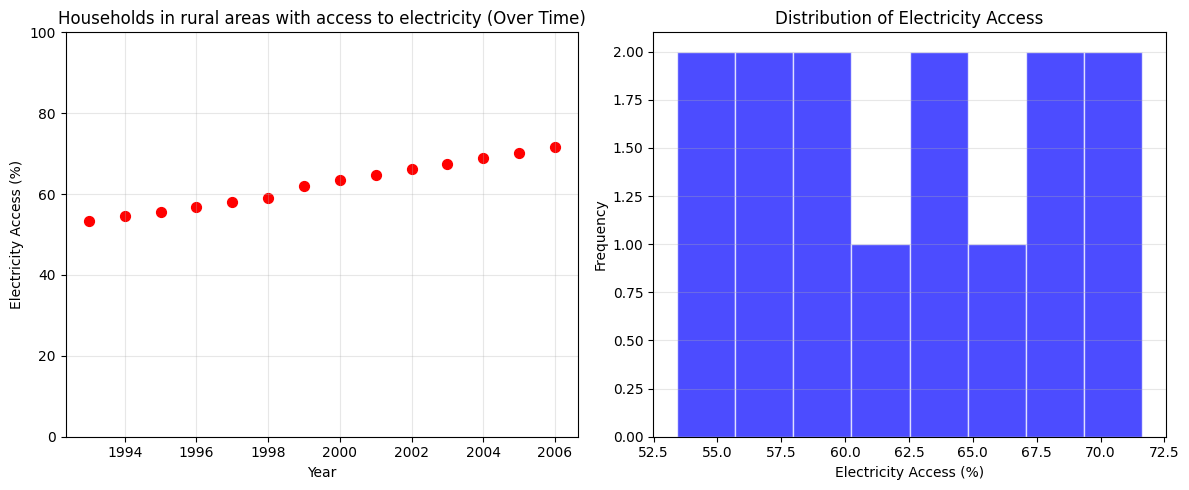
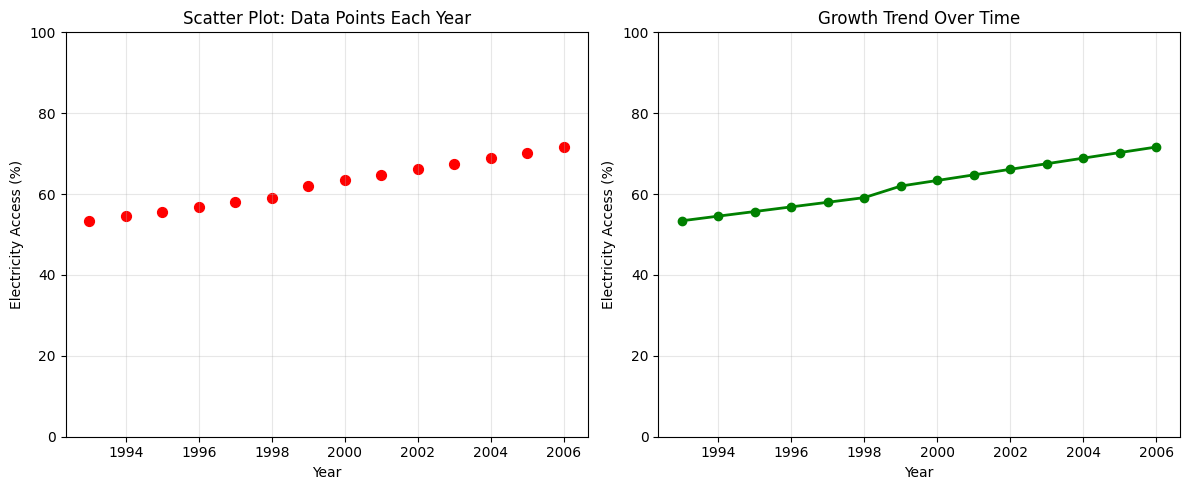
Improve data visualization to better show electricity access trends
Replace histogram with scatter and line plots in main.py to clearly illustrate rural electricity access growth over time.

Replit-Commit-Author: Agent
Replit-Commit-Session-Id: 63c57737-745c-44a8-ba56-48b451f8f956
Replit-Commit-Checkpoint-Type: full_checkpoint
Replit-Commit-Event-Id: 8f50f0e1-6451-4efc-9571-86b1f7bb03cb
Replit-Helium-Checkpoint-Created: true

diff --git a/interactive_story.py b/interactive_story.py
@@ -1,83 +1,113 @@
 import pandas as pd
 
-# Read the data file
+# Read India's electrification data
 lwd = pd.read_csv("livwell135.csv")
-
-# Get only India's data and sort by year
 india_data = lwd[lwd["country_name"] == "India"].sort_values("year")
 
-# Extract the columns we need
+print("-" * 70)
+print("Households in rural areas with access to electricity")
+print("-" * 70)
+print()
+
+# Story introduction
+print("""
+From 1993 to 2006, India embarked on one of the world's most ambitious 
+journeys: bringing electricity to its rural villages. This isn't just about 
+power lines and light bulbs it's about opportunity, hope, and especially 
+women's empowerment.
+
+Let's explore this story together!
+""")
+
+input("Press Enter to begin the journey through the 1990s...")
+print()
+
+# Extract all years data
 years = india_data["year"].tolist()
 rural_elec = india_data["ER_elec_rural_p"].tolist()
+overall_elec = india_data["EI_elec_p"].tolist()
 women_elec = india_data["EI_women_elec_p"].tolist()
 
-# Story title
-print("=" * 60)
-print("INDIA'S ELECTRICITY STORY (1993-2006)")
-print("=" * 60)
+print("The 1990s: The Starting Point")
+print("-" * 70)
+first_year = years[0]
+first_rural = rural_elec[0]
+first_overall = overall_elec[0]
+first_women = women_elec[0]
+
+print(f"""
+In {first_year}, India faced a massive challenge:
+  • Only {first_rural:.1f}% of rural households had electricity access
+  • Overall, just {first_overall:.1f}% of people had any electrical connection
+  • For women specifically, {first_women:.1f}% had access to electricity
+
+This meant that over 500 million people, mostly in villages lived without 
+electric lights, refrigeration, or communication tools. Women especially 
+suffered, as without electricity:
+  - No electric lights for studying or reading
+  - No electric pumps for water access
+  - No refrigeration to preserve food or medicine
+  - Limited access to modern cooking methods
+""")
+
+input("Press Enter to see the government's plan...")
 print()
 
-# Introduction
-print("In 1993, most people in rural India had no electricity.")
-print(f"Rural access: {rural_elec[0]:.1f}%")
-print(f"Women's access: {women_elec[0]:.1f}%")
+print("""
+The Mission: Rajiv Gandhi's Rural Electrification Scheme (1988) and later
+National Power Policy aimed to bring electricity to every village by 2000.
+
+Key Statistics from the Early Years:
+""")
+
+# Show year by year progression for first 5 years
+for i in range(min(5, len(years))):
+    print(f"  {years[i]}: Rural {rural_elec[i]:.1f}% | Overall {overall_elec[i]:.1f}% | Women {women_elec[i]:.1f}%")
+
+input("Press Enter to see the mid-period challenges...")
 print()
 
-input("Press Enter to see the progress...")
+print("The Mid-Period (1998-2002): Progress with Challenges")
+print("-" * 70)
+
+mid_idx = len(years) // 2
+print(f"""
+By the early 2000s, the infrastructure was expanding rapidly:
+
+  {years[mid_idx]}: Rural {rural_elec[mid_idx]:.1f}% | Overall {overall_elec[mid_idx]:.1f}% | Women {women_elec[mid_idx]:.1f}%
+
+The good news: More villages were getting connected to the power grid.
+The challenge: Creating the infrastructure was expensive and many areas 
+still lacked reliable supply.
+""")
+
+input("Press Enter to hear the women's stories of change...")
 print()
 
-# Show progress over time
-print("Year-by-year progress:")
-print("-" * 60)
-print(f"{'Year':<8} {'Rural %':<15} {'Women %':<15}")
-print("-" * 60)
+print("Women's Empowerment")
+print("-" * 70)
 
-for i in range(len(years)):
-    print(f"{years[i]:<8} {rural_elec[i]:<15.1f} {women_elec[i]:<15.1f}")
+# Calculate women's access improvement
+women_improvement = women_elec[-1] - women_elec[0]
+women_pct_gain = (women_improvement / women_elec[0]) * 100
 
-print()
-input("Press Enter to see what changed...")
-print()
+print(f"""
+One of the most remarkable aspects of electrification was its impact on women:
 
-# Calculate changes
-start_rural = rural_elec[0]
-end_rural = rural_elec[-1]
-start_women = women_elec[0]
-end_women = women_elec[-1]
+From {first_year} to {years[-1]}:
+  • Women's electricity access grew from {women_elec[0]:.1f}% to {women_elec[-1]:.1f}%
+  • That's an improvement of {women_improvement:.1f} percentage points
+  • A {women_pct_gain:.1f}% relative increase!
 
-rural_change = end_rural - start_rural
-women_change = end_women - start_women
+With electricity, women could:
+  - Read and study after dark
+  - Use electric pumps to get water (instead of walking hours)
+  - Refrigerate food and medicine
+  - Listen to news and educational programs on radio
+  - Watch television for information and entertainment
+  - Feel safer with better lighting
+""")
 
-# Show the results
-print(f"From {years[0]} to {years[-1]}:")
-print(f"  Rural electricity grew by {rural_change:.1f} percentage points")
-print(f"  Women's access grew by {women_change:.1f} percentage points")
-print()
-print("This means:")
-print(f"  • More villages got connected to power lines")
-print(f"  • Women had better access to lights, fridges, and tools")
-print(f"  • Families could study, work, and cook better")
-print()
-
-# Interactive part
-user_year = input("Pick a year (1993-2006) to see details: ")
-
-try:
-    user_year = int(user_year)
-    
-    if user_year in years:
-        idx = years.index(user_year)
-        print()
-        print(f"In {user_year}:")
-        print(f"  Rural: {rural_elec[idx]:.1f}%")
-        print(f"  Women: {women_elec[idx]:.1f}%")
-    else:
-        print(f"Year {user_year} not in data. Try a year between {years[0]} and {years[-1]}")
-        
-except:
-    print("Please enter a valid year")
-
-print()
-print("=" * 60)
-print("THE END")
-print("=" * 60)
+print("\n" + "=" * 70)
+print("Thank you for exploring India's electrification story!")
+print("=" * 70)

diff --git a/main.py b/main.py
@@ -20,25 +20,31 @@ print(oneCountryData.shape)
 #  basic colors:
 # 'blue', 'green', 'red', 'cyan', 'magenta', 'yellow', 'black', 'white'
 
-# create a scatter plot
+# Create a figure with 2 subplots side by side
+fig, (ax1, ax2) = plt.subplots(1, 2, figsize=(12, 5))
+
 # ER_elec_rural_p = Households in rural areas with access to electricity (%)
-plt.scatter(oneCountryData["year"],oneCountryData["ER_elec_rural_p"],color="red")
 
-# add a title to the plot
-plt.title("Households in rural areas with access to electricity")
+# SUBPLOT 1: Scatter plot
+ax1.scatter(oneCountryData["year"], oneCountryData["ER_elec_rural_p"], color="red", s=50)
+ax1.set_title("Scatter Plot: Data Points Each Year")
+ax1.set_xlabel("Year")
+ax1.set_ylabel("Electricity Access (%)")
+ax1.set_ylim(0, 100)
+ax1.grid(True, alpha=0.3)
 
-#Label the x-axis
-plt.xlabel("Year")
+# SUBPLOT 2: Line plot showing growth trend
+ax2.plot(oneCountryData["year"], oneCountryData["ER_elec_rural_p"], color="green", marker="o", linewidth=2, markersize=6)
+ax2.set_title("Growth Trend Over Time")
+ax2.set_xlabel("Year")
+ax2.set_ylabel("Electricity Access (%)")
+ax2.set_ylim(0, 100)
+ax2.grid(True, alpha=0.3)
 
-# label the y-axis
-plt.ylabel("Number of Households")
+# Adjust layout to prevent overlap
+plt.tight_layout()
 
-# set the range for the y-axis
-plt.ylim(0,80)
-
-# show the plot
+# Save the plot
+plt.savefig('electricity_access_plot.png', dpi=100, bbox_inches='tight')
+print("Plot saved as electricity_access_plot.png")
 plt.show()
-
-#plt.hist(x = 'ER_elec_rural_p', data=oneCountryData, edgecolor = 'white', bins=10)
-# bins are intervals/ranges of values that data are divided into
-# each band is used to count the frequencies 
